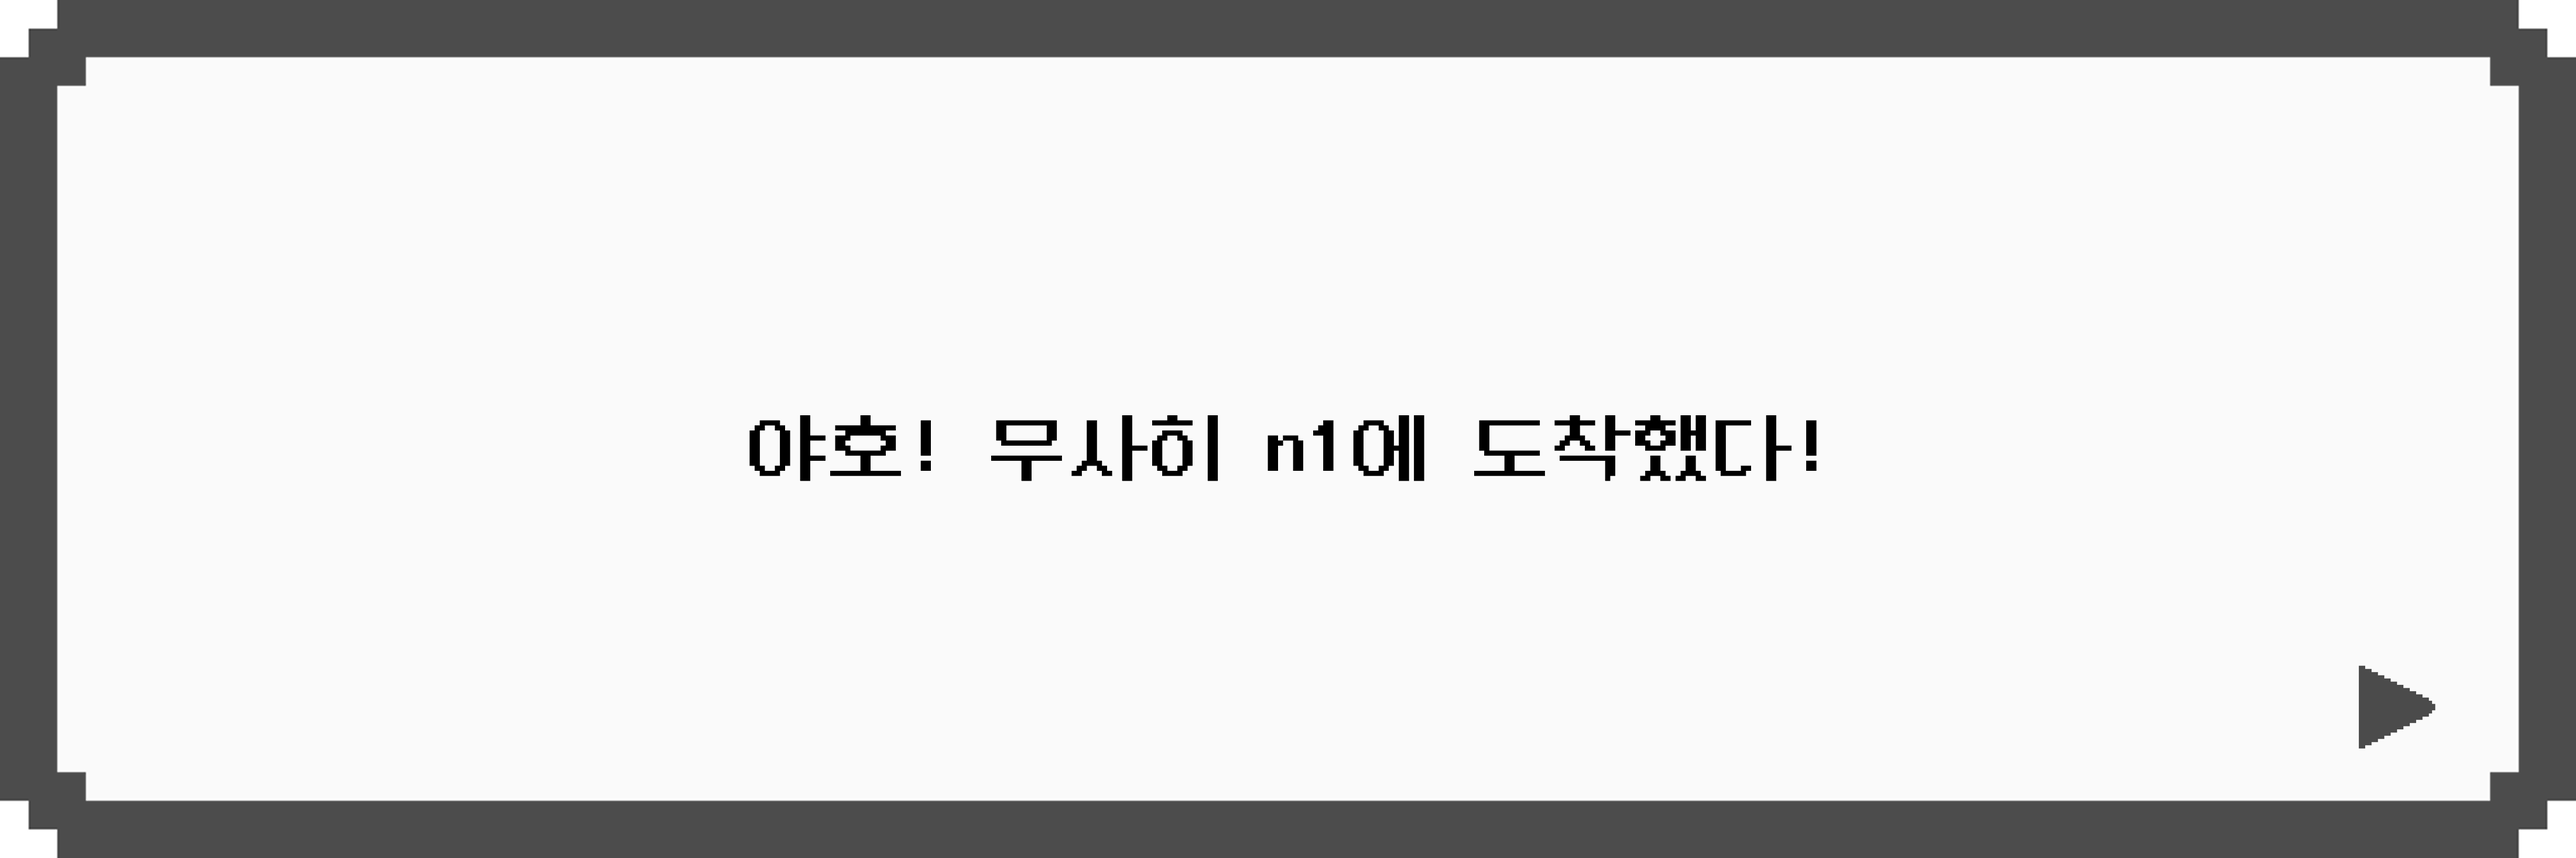
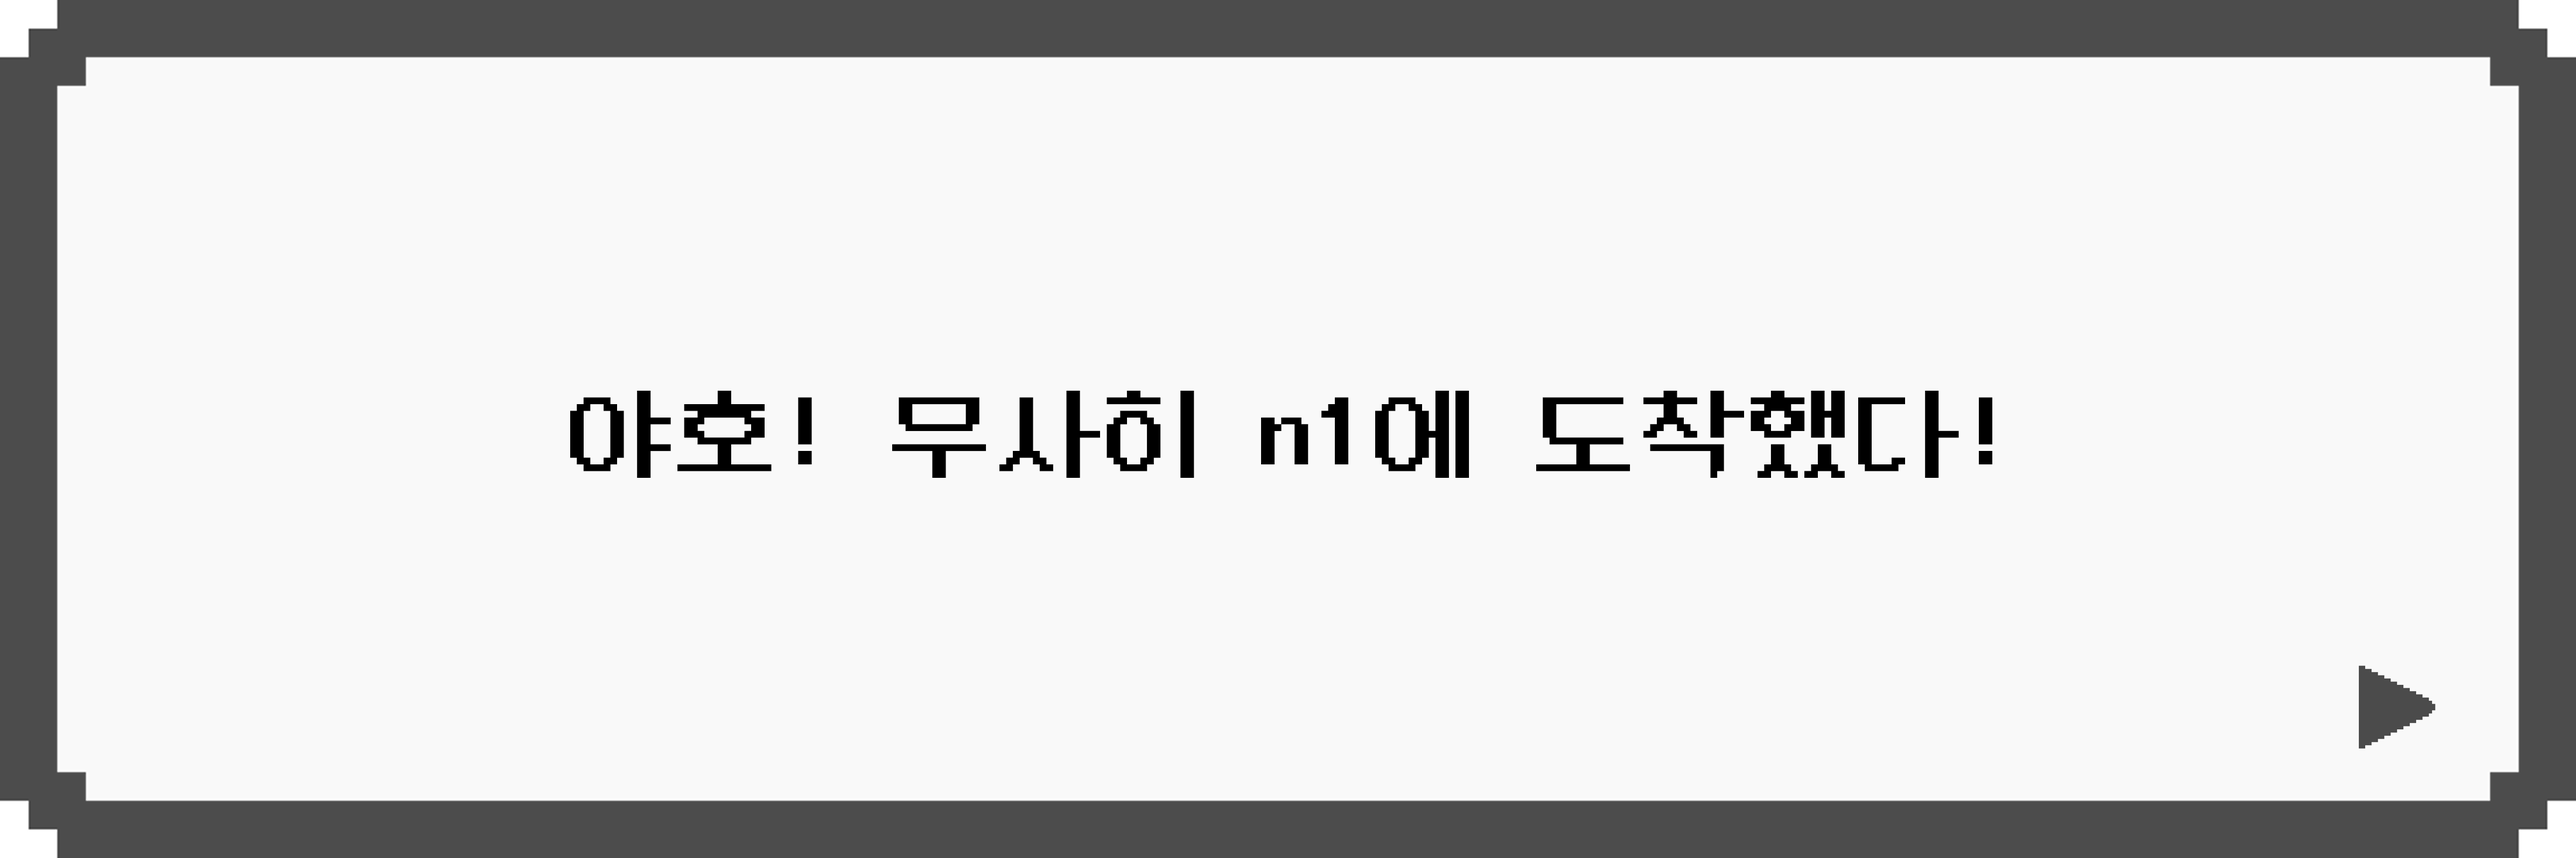
event1 textbox

Changed region(s): [[0.218, 0.4601, 0.7784, 0.5828]]

diff --git a/src/Tutorial.js b/src/Tutorial.js
@@ -39,6 +39,8 @@ const Tutorial = ({ width, height }) => {
   const [lastEnterKeyTime, setLastEnterKeyTime] = useState(0);
   const [isGameCompleted, setIsGameCompleted] = useState(false);
   const [outroImage, setOutroImage] = useState(null);
+  const [textboxEvent1, setTextboxEvent1] = useState(null);
+  const [showTextboxEvent1, setShowTextboxEvent1] = useState(false);
 
   const gravity = 0.8;
   const jumpStrength = -12;
@@ -151,6 +153,14 @@ const Tutorial = ({ width, height }) => {
       .catch((err) => {
         console.error('Failed to load outro image:', err);
       });
+
+    loadImage(require('./images/textbox_event1.png'))
+      .then((image) => {
+        setTextboxEvent1(image);
+      })
+      .catch((err) => {
+        console.error('Failed to load textbox_event1 image:', err);
+      });
   }, []);
 
   useEffect(() => {
@@ -183,6 +193,12 @@ const Tutorial = ({ width, height }) => {
             setIsBackgroundPause(true);
             setJellies([]);
             setObstacles([]);
+
+            // Event 1: bg_lake에서 textbox_event1 표시
+            if (bgIndex === 3) {
+              setShowTextboxEvent1(true);
+            }
+
             setTimeout(() => {
               setIsBackgroundPause(false);
               setBackgroundX(0);
@@ -191,6 +207,7 @@ const Tutorial = ({ width, height }) => {
               const newIndex = (bgIndex + 1) % bgImages.length;
               setNextBgImage(bgImages[newIndex]);
               setBgIndex(newIndex);
+              setShowTextboxEvent1(false); // 화면이 다시 흐르기 시작하면 textbox_event1 숨기기
             }, 8000); // 8초 동안 멈춤
             return;
           }
@@ -552,6 +569,28 @@ const Tutorial = ({ width, height }) => {
               홈으로 돌아가기
             </button>
           </div>
+        </div>
+      )}
+      {showTextboxEvent1 && textboxEvent1 && (
+        <div
+          style={{
+            position: 'absolute',
+            top: 'calc(10% + 40px)', // 기존 위치에서 40px 아래로
+            left: '50%',
+            transform: 'translateX(-50%)',
+            height: `${height / 4}px`,
+            width: 'auto',
+            zIndex: 15,
+          }}
+        >
+          <img
+            src={textboxEvent1.src}
+            alt="Textbox Event 1"
+            style={{
+              height: '100%',
+              width: 'auto',
+            }}
+          />
         </div>
       )}
     </div>
